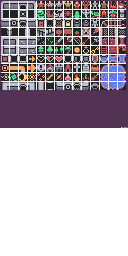
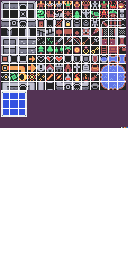
skeleton of text box drawing

Changed region(s): [[0.0, 0.3438, 0.2188, 0.4688]]

diff --git a/libs/game/src/game.rs b/libs/game/src/game.rs
@@ -182,8 +182,15 @@ pub mod xy {
     shared_impl!{
         X Y W H
     }
+
+    pub struct Rect {
+        pub min_x: X,
+        pub min_y: Y,
+        pub max_x: X,
+        pub max_y: Y,
+    }
 }
-pub use xy::{X, Y, W, H};
+pub use xy::{X, Y, W, H, Rect};
 
 #[derive(Clone, Default)]
 pub struct Entity {
@@ -242,6 +249,13 @@ impl <const N: ButtonCount> PasswordLock<N> {
         }
         dbg!(&output);
         output
+    }
+
+    fn reset(&mut self) {
+        for i in 0..N {
+            self.open[i] = false;
+        }
+        self.press_count = 0;
     }
 }
 
@@ -378,8 +392,16 @@ impl State {
     }
 
     fn reset_time(&mut self) {
-        // New seed for the rng, so different resets are slightly different
-        *self = State::new(xs::new_seed(&mut self.rng));
+        let mut password_lock = self.password_lock.clone();
+        // Retain the combination for this game across resets.
+        password_lock.reset();
+
+        // New seed for the rng, so different resets are slightly different.
+        *self = State::new(
+            xs::new_seed(&mut self.rng)
+        );
+
+        self.password_lock = password_lock;
     }
 
     fn add_entity(&mut self, entity: Entity) {
@@ -478,15 +500,14 @@ impl State {
                             if self.password_lock.press_count >= button_count {
                                 // Reset all the buttons because a mistake was made
                                 // entering it.
-                                for i in 0..button_count {
-                                    self.password_lock.open[i] = false;
+                                self.password_lock.reset();
 
+                                for i in 0..button_count {
                                     self.remove_entity(
                                         self.password_lock.xs[i],
                                         self.password_lock.ys[i],
                                     );
                                 }
-                                self.password_lock.press_count = 0;
                             }
                         }
                     }
@@ -497,14 +518,6 @@ impl State {
         }
 
         output
-    }
-
-    pub fn current_message(&self) -> impl Iterator<Item = &Segment> {
-        let output: &'static [Segment] = match self.screen {
-            Screen::Gameplay => &[],
-            Screen::Congraturation => &CONGRATURATION_LINES,
-        };
-        output.into_iter()
     }
 }
 
@@ -528,8 +541,18 @@ static CONGRATURATION_LINES: [Segment; 2] =
         },
     ];
 
+
+pub struct RenderInfo<'tiles> {
+    pub tiles: CurrentTiles<'tiles>,
+    pub text_boxes: TextBoxes,
+    pub message_segments: MessageSegments,
+}
+
+pub type TextBoxes = core::option::IntoIter<Rect>;
+pub type MessageSegments = std::slice::Iter<'static, Segment>;
+
 impl State {
-    pub fn current_tiles(&self) -> (impl Iterator<Item = Tile> + use<'_>, [Tile; 1]) {
+    pub fn render_info(&self) -> RenderInfo<'_> {
         let map_w = xy::w(self.map.width as _);
         let map_h = xy::h(self.map.width as _);
 
@@ -547,42 +570,74 @@ impl State {
         offset_x = offset_x.clamp(W::ZERO, map_w - output_width);
         offset_y = offset_y.clamp(H::ZERO, map_h - output_height);
 
-        let sprites = [
-            Tile {
-                kind: self.player.kind,
-                x: self.player.x - offset_x,
-                y: self.player.y - offset_y,
-            },
-        ];
+        let mut camera = CameraIter {
+            map: self.map,
+            entities: &self.entities,
+            offset_x,
+            offset_y,
+            output_width,
+            output_height,
+            done: false,
+            tile: Tile::default(),
+        };
 
-        match self.screen {
-            Screen::Gameplay => (
-                CameraIter {
-                    map: self.map,
-                    entities: &self.entities,
-                    offset_x,
-                    offset_y,
-                    output_width,
-                    output_height,
-                    done: false,
-                    tile: Tile::default(),
-                },
-                sprites
-            ),
-            Screen::Congraturation => (
-                CameraIter {
-                    map: self.map,
-                    entities: &self.entities,
-                    offset_x,
-                    offset_y,
-                    output_width,
-                    output_height,
-                    done: true, // No tiles needed
-                    tile: Tile::default(),
-                },
-                sprites
-            ),
+        let text_box = match self.screen {
+            Screen::Gameplay => {
+                // TODO Show this conditionally, and in the right size based on the text
+                Some(Rect {
+                    min_x: xy::x(0),
+                    min_y: xy::y(40),
+                    max_x: xy::x(40),
+                    max_y: xy::y(42),
+                })
+            },
+            Screen::Congraturation => {
+                // No tiles needed
+                camera.done = true;
+                None
+            },
+        };
+
+        let player = Some(Tile {
+            kind: self.player.kind,
+            x: self.player.x - offset_x,
+            y: self.player.y - offset_y,
+        });
+
+        let message_segments: &'static [Segment] = match self.screen {
+            Screen::Gameplay => &[],
+            Screen::Congraturation => &CONGRATURATION_LINES,
+        };
+
+        RenderInfo {
+            tiles: CurrentTiles {
+                camera,
+                player,
+            },
+            text_boxes: text_box.into_iter(),
+            message_segments: message_segments.into_iter(),
         }
+    }
+}
+
+pub struct CurrentTiles<'camera> {
+    camera: CameraIter<'camera>,
+    player: Option<Tile>,
+}
+
+impl Iterator for CurrentTiles<'_> {
+    type Item = Tile;
+
+    fn next(&mut self) -> Option<Self::Item> {
+        if let Some(t) = self.camera.next() {
+            return Some(t)
+        }
+
+        if let Some(t) = self.player.take() {
+            return Some(t)
+        }
+
+        None
     }
 }
 

diff --git a/libs/app/src/app.rs b/libs/app/src/app.rs
@@ -1,4 +1,4 @@
-use game::{Dir};
+use game::{Dir, RenderInfo};
 use gfx::{Commands};
 use platform_types::{command, sprite, unscaled, Button, Input, Speaker, SFX};
 pub use platform_types::StateParams;
@@ -94,9 +94,13 @@ fn render(commands: &mut Commands, state: &game::State) {
         Y_OFFSET + y.get().get() * gfx::tile::HEIGHT
     }
 
-    let (iter, sprites) = state.current_tiles();
+    let RenderInfo {
+        tiles,
+        text_boxes,
+        message_segments,
+    } = state.render_info();
 
-    for tile in iter {
+    for tile in tiles {
         commands.draw_tile(
             tile.kind,
             to_x(tile.x),
@@ -104,16 +108,16 @@ fn render(commands: &mut Commands, state: &game::State) {
         );
     }
 
-    for tile in sprites {
-        commands.draw_tile(
-            tile.kind,
-            to_x(tile.x),
-            to_y(tile.y),
+    for text_box in text_boxes {
+        commands.draw_text_box(
+            to_x(text_box.min_x),
+            to_y(text_box.min_y),
+            to_x(text_box.max_x),
+            to_y(text_box.max_y),
         );
     }
 
-    let message = state.current_message();
-    for segment in message {
+    for segment in message_segments {
         commands.print(
             segment.text,
             to_x(segment.x),

diff --git a/libs/gfx/src/gfx.rs b/libs/gfx/src/gfx.rs
@@ -131,6 +131,16 @@ impl Commands {
             })
         );
     }
+
+    pub fn draw_text_box(
+        &mut self,
+        min_x: unscaled::X,
+        min_y: unscaled::Y,
+        max_x: unscaled::X,
+        max_y: unscaled::Y,
+    ) {
+        // TODO
+    }
 }
 
 pub mod tile {
